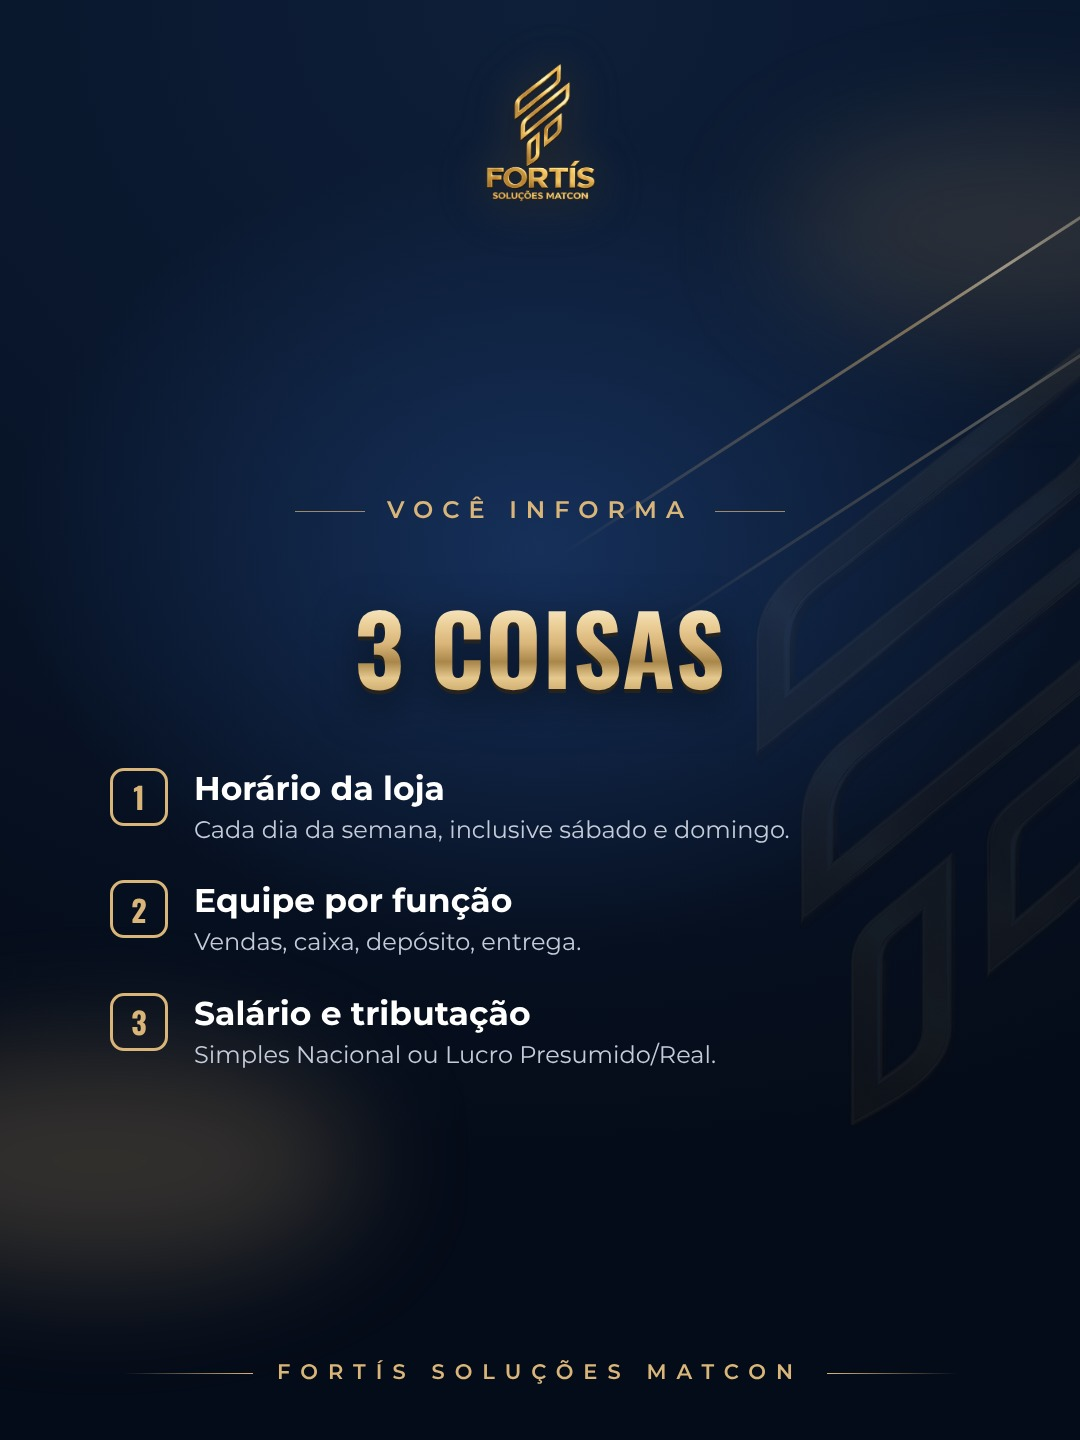
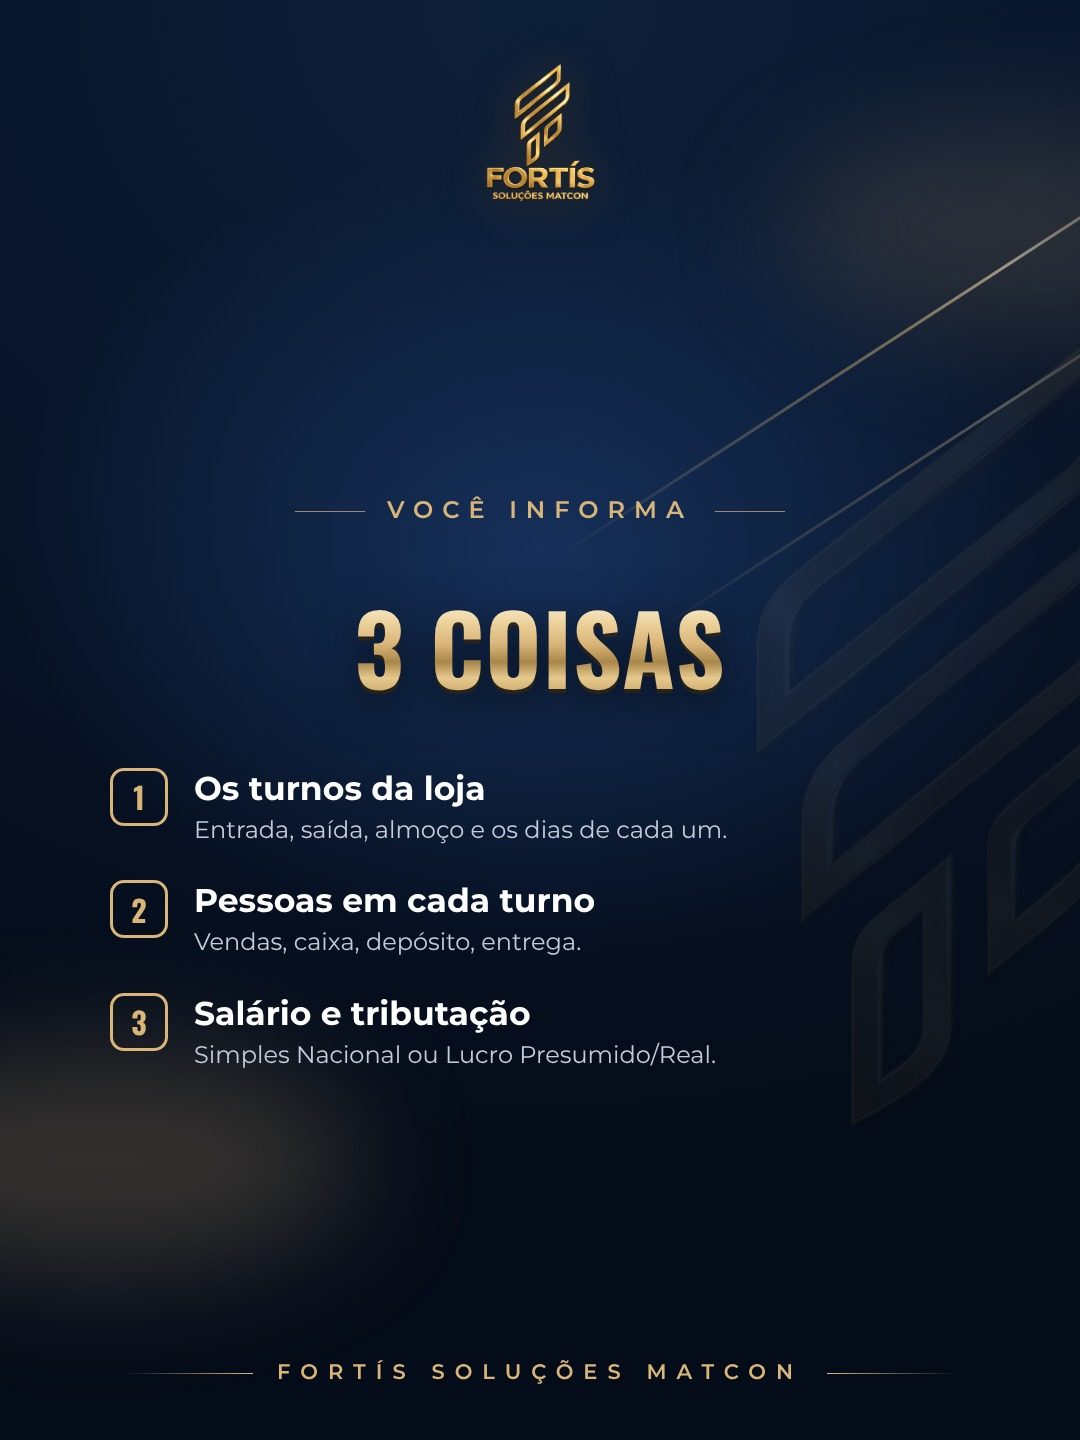
Série 5x2: lançamento descreve a calculadora por turnos
Claude-Session: https://claude.ai/code/session_01HVzRnNg6pzCVkCeZ2TrhZb

Changed region(s): [[0.1833, 0.5312, 0.7333, 0.6562]]

diff --git a/gerador/especiais/serie-calculadora-5x2.py b/gerador/especiais/serie-calculadora-5x2.py
@@ -64,10 +64,10 @@ SERIE = {}
 SERIE['24-11'] = dict(
   feed=('calculadora-5x2-lancamento', [
     capa("NOVO NO SITE DA FORTÍS", ["CALCULADORA DA", "ESCALA 5x2"], "Gratuita. Em poucos minutos você sabe <b>quantas pessoas a sua loja vai precisar</b> em 16 de dezembro."),
-    slide("VOCÊ INFORMA", ["3 COISAS"], [("Horário da loja", "Cada dia da semana, inclusive sábado e domingo."), ("Equipe por função", "Vendas, caixa, depósito, entrega."), ("Salário e tributação", "Simples Nacional ou Lucro Presumido/Real.")]),
-    slide("ELA MOSTRA", ["A RESPOSTA"], [("Quantas pessoas", "Hoje, com 42 horas e com 40 horas."), ("Quanto custa cada saída", "Hora extra, contratação ou a combinação mais barata."), ("A escala da semana pronta", "Quem trabalha e quem folga em cada dia.")], ini=4),
+    slide("VOCÊ INFORMA", ["3 COISAS"], [("Os turnos da loja", "Entrada, saída, almoço e os dias de cada um."), ("Pessoas em cada turno", "Vendas, caixa, depósito, entrega."), ("Salário e tributação", "Simples Nacional ou Lucro Presumido/Real.")]),
+    slide("ELA MOSTRA", ["A RESPOSTA"], [("Quantas pessoas", "Hoje, com 42 horas e com 40 horas."), ("Quanto custa cada saída", "Hora extra, contratação ou a combinação mais barata."), ("A escala da semana pronta", "O turno e a folga de cada pessoa, dia a dia.")], ini=4),
     fim(["FAÇA A SUA", "SIMULAÇÃO"], [SITE, ("Seus dados ficam com você", "O cálculo roda no seu celular, nada é enviado.")], 'Quer ajuda para montar a escala? <b>Chame no direct.</b>')],
-    'Lançamos no site da Fortís a calculadora da escala 5x2, gratuita para lojas de material de construção.\n\nVocê informa o horário da loja, a equipe por função e os salários. Ela mostra quantas pessoas a loja vai precisar com 42 horas (16/12/2026) e com 40 horas (16/12/2027), quanto custa cada saída e a escala da semana pronta.\n\nAcesse: fortismatcon.com.br/ferramentas\n\nQuer ajuda para montar a escala? Chame no direct.'),
+    'Lançamos no site da Fortís a calculadora da escala 5x2, gratuita para lojas de material de construção.\n\nVocê informa os turnos da loja (entrada, saída, almoço e dias), quantas pessoas de cada função trabalham em cada turno e os salários. Ela mostra quantas pessoas a loja vai precisar com 42 horas (16/12/2026) e com 40 horas (16/12/2027), quanto custa cada saída e a escala da semana pronta.\n\nAcesse: fortismatcon.com.br/ferramentas\n\nQuer ajuda para montar a escala? Chame no direct.'),
   story=('calculadora-5x2-lancamento', chamada("NOVO NO SITE", ["QUANTAS PESSOAS", "SUA LOJA VAI PRECISAR?"], "A jornada de 42 horas começa em <b>16 de dezembro</b>. Simule a sua equipe agora.", 92)),
 )
 
